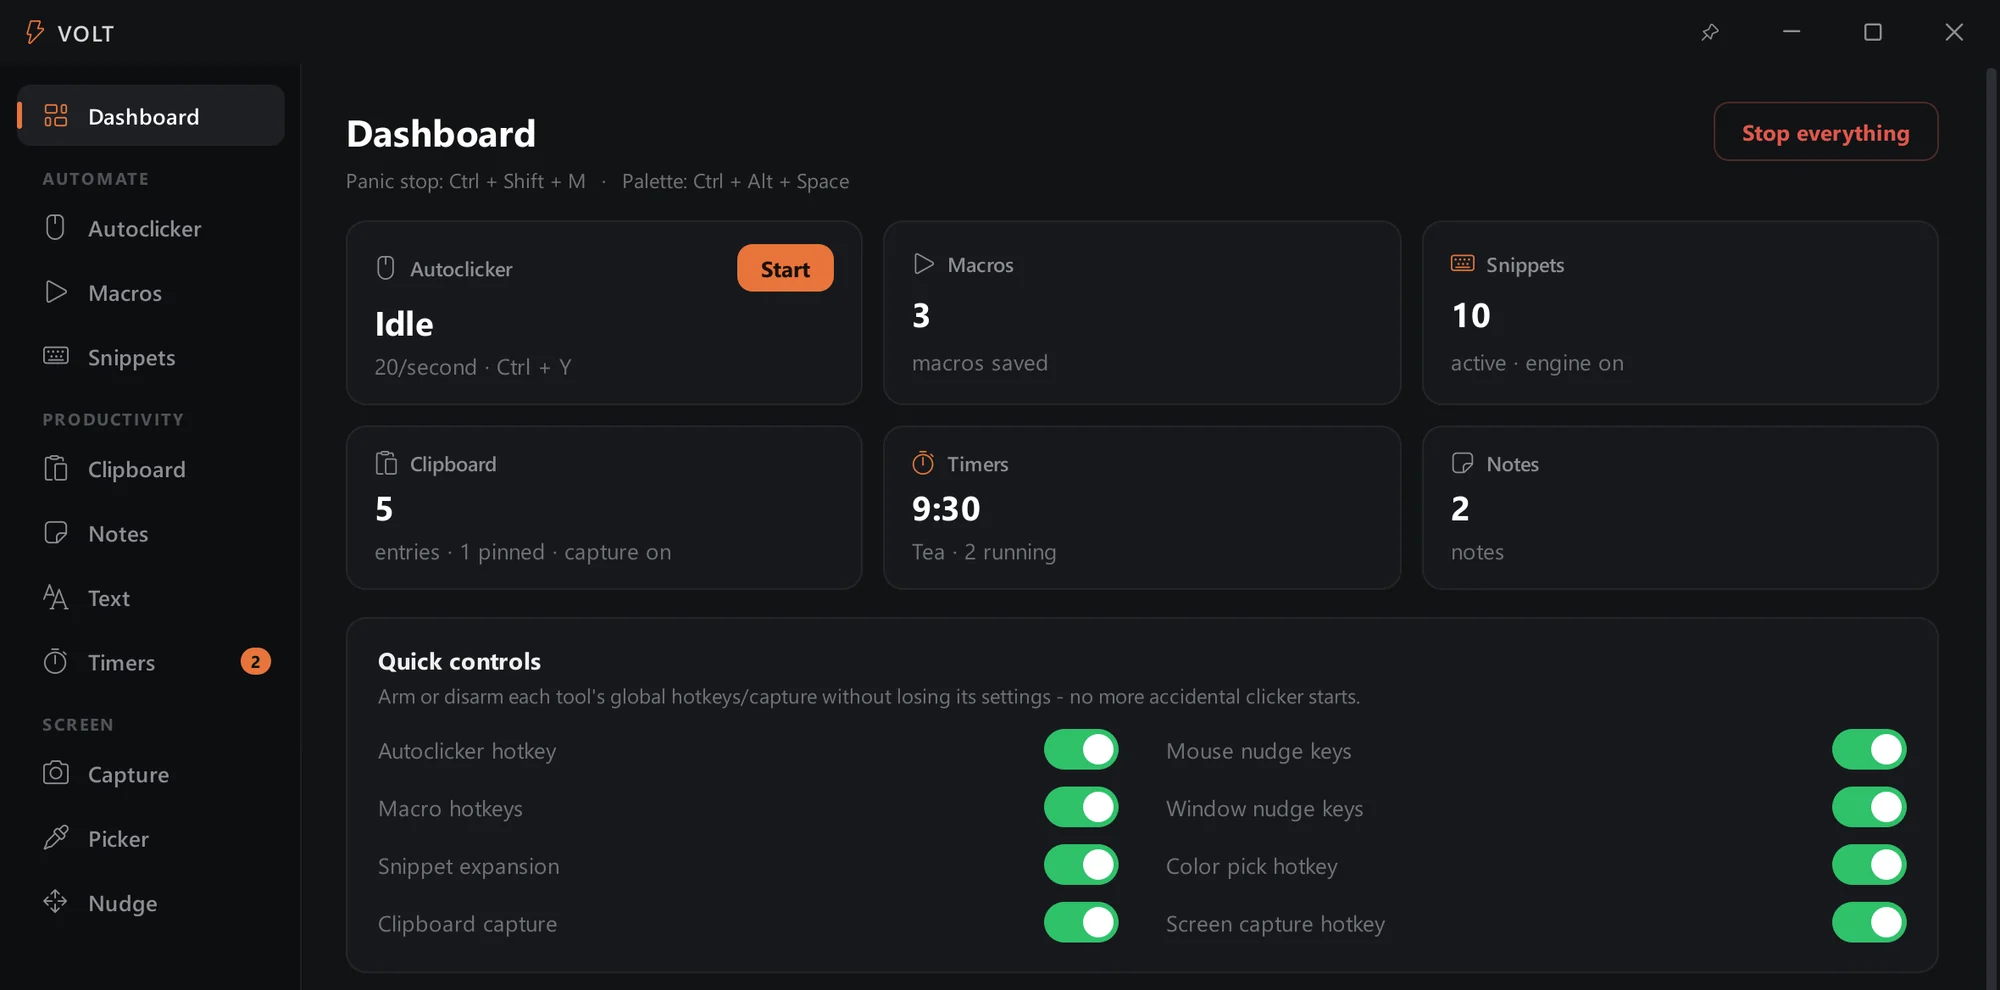
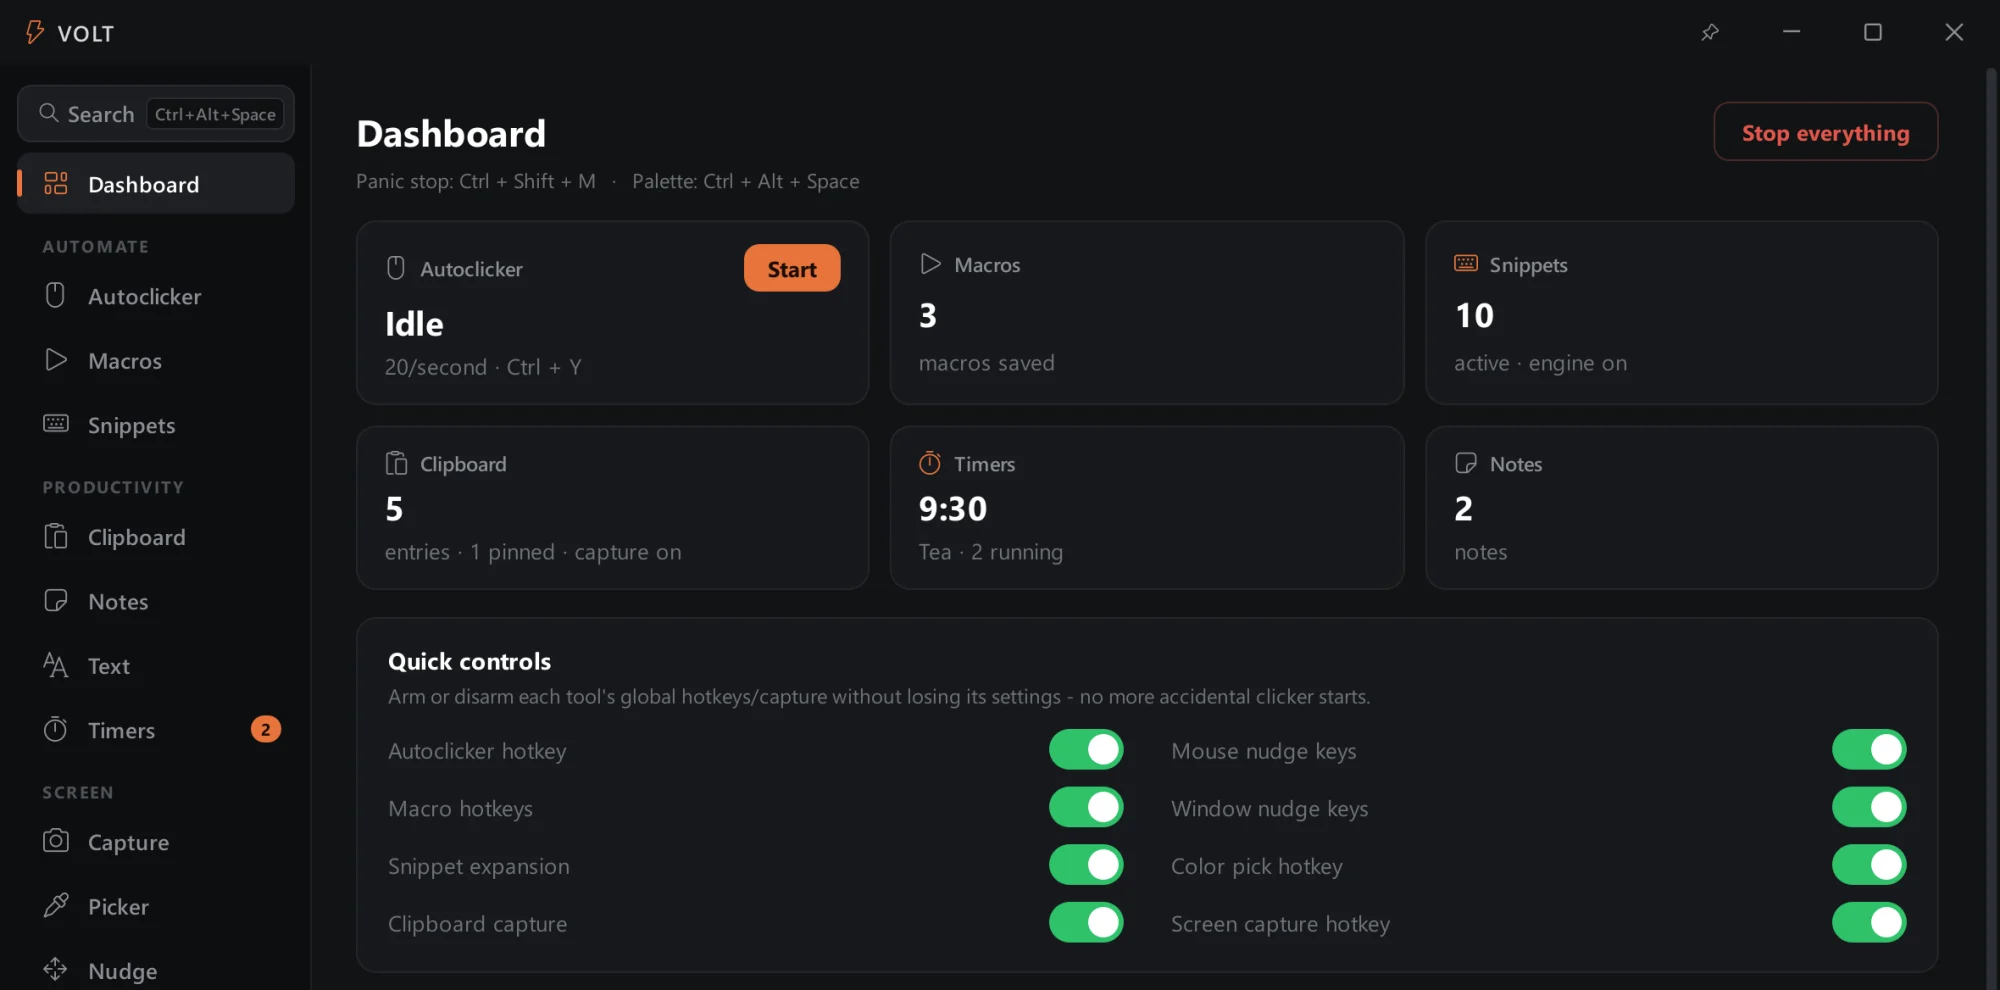
Update site for Volt 0.8
Plainer hero copy without the "built for you" tagline, real 0.8 idle
measurements instead of the stats strip and estimates, a new dashboard
screenshot, a light-theme clipboard shot, and a light theme FAQ entry.

diff --git a/index.html b/index.html
@@ -6,11 +6,11 @@
 <meta http-equiv="Content-Security-Policy" content="default-src 'self'; img-src 'self' data:; style-src 'self'; script-src 'none'; object-src 'none'; base-uri 'self'; form-action 'none'; upgrade-insecure-requests">
 <meta name="referrer" content="strict-origin-when-cross-origin">
 <title>Volt for Windows</title>
-<meta name="description" content="Volt is the Windows multitool built for you: autoclicker, macros, snippets, clipboard history and six more tools in one small, free and open source app that keeps everything on your PC.">
+<meta name="description" content="Volt is a free, open source Windows app with an autoclicker, macro recorder, clipboard manager, text expander and six more small tools. It runs from the tray and never goes online.">
 <meta name="theme-color" content="#0d0e10">
 <link rel="canonical" href="https://lljzzz.github.io/">
-<meta property="og:title" content="Volt, the Windows multitool built for you">
-<meta property="og:description" content="Autoclicker, macros, snippets, clipboard history and six more tools in one small app. Free, open source, and nothing leaves your PC.">
+<meta property="og:title" content="Volt: ten small tools for Windows in one app">
+<meta property="og:description" content="An autoclicker, macro recorder, clipboard manager and seven more tools for Windows. Free, open source, and it never goes online.">
 <meta property="og:type" content="website">
 <meta property="og:url" content="https://lljzzz.github.io/">
 <meta property="og:image" content="https://lljzzz.github.io/img/volt-icon-512.png">
@@ -66,13 +66,14 @@
   <section class="hero" id="top">
     <div class="wrap hero-grid">
       <div class="hero-copy">
-        <h1><span class="wordmark">VOLT</span><span class="tagline">The Windows multitool built for <em>you</em>.</span></h1>
-        <p class="lede">Autoclicker, macros, snippets, clipboard history and six more everyday tools in one small app. Free, open source, and nothing ever leaves your PC.</p>
+        <h1><span class="wordmark">VOLT</span><span class="tagline">Ten small Windows tools in one app.</span></h1>
+        <p class="lede">An autoclicker, macros, a text expander, clipboard history, screenshots and five more. It sits in the tray and you use it through hotkeys or a quick search palette. Free, open source, and it never goes online.</p>
         <div class="hero-actions">
           <a class="btn btn-primary" href="#download"><svg class="icon" aria-hidden="true"><use href="#i-download"/></svg>Download for Windows</a>
           <a class="btn btn-ghost" href="#tools">See every tool</a>
         </div>
         <p class="hero-meta">Windows 10 and 11, 64-bit · about 26 MB · no installer</p>
+        <p class="hero-new">New in 0.8: a light theme and a round of bug fixes. <a href="https://github.com/lljzzz/volt/releases/latest">Release notes</a></p>
       </div>
 
       <div class="hero-visual">
@@ -84,7 +85,7 @@
         <div class="stack">
           <div class="window win-back">
             <img src="img/dashboard.webp" width="2000" height="990" fetchpriority="high"
-              alt="The Volt Dashboard: status cards for the autoclicker, macros, snippets, clipboard, timers and notes, above a Quick controls panel with one switch per tool's hotkeys.">
+              alt="The Volt Dashboard: a sidebar with a Search button and every tool, status cards for the autoclicker, macros, snippets, clipboard, timers and notes, and a Quick controls panel with one switch per tool's hotkeys.">
           </div>
           <img class="win-front" src="img/palette.webp" width="1240" height="940"
             alt="The quick palette open with the search text cl, listing recent clipboard items and clipboard transforms like UPPER, lower and Title case.">
@@ -97,27 +98,21 @@
   <section class="section band" id="lightweight" aria-labelledby="perf-title">
     <div class="wrap perf">
       <div class="section-head">
-        <h2 id="perf-title">Lightweight and fast</h2>
-        <p>Volt waits in the tray and only wakes up when you use it. Leave it running all day and you won't notice it's there.</p>
+        <h2 id="perf-title">Quiet in the background</h2>
+        <p>Volt does nothing until you press one of its hotkeys. The autoclicker and macros switch on a precise timer while they run and switch it off again when they stop.</p>
       </div>
-      <div class="stats">
-          <div class="stat"><span class="num">0<small>%</small></span><span class="label">CPU at idle</span></div>
-          <div class="stat"><span class="num">55<small>MB</small></span><span class="label">Memory at idle</span></div>
-          <div class="stat"><span class="num">26<small>MB</small></span><span class="label">Download</span></div>
-        </div>
-      <div class="perf-detail">
+      <div>
         <div class="table-wrap" role="region" aria-labelledby="perf-caption" tabindex="0">
           <table>
-            <caption id="perf-caption" class="visually-hidden">Volt 0.7 resource use</caption>
-            <thead><tr><th scope="col">Load</th><th scope="col">CPU</th><th scope="col">Memory</th></tr></thead>
+            <caption id="perf-caption" class="visually-hidden">Volt 0.8 resource use</caption>
             <tbody>
-              <tr><th scope="row">Idle<span class="sub">Sitting in the tray</span></th><td>0%</td><td>55 MB</td></tr>
-              <tr><th scope="row">Light load<span class="sub">A few timers and the autoclicker running</span></th><td>0%, brief peaks of 0.4%</td><td>about 58.5 MB</td></tr>
-              <tr><th scope="row">Heavy load<span class="sub">Several tools busy at once</span></th><td>should stay under 1%</td><td>should stay under 60 MB</td></tr>
+              <tr><th scope="row">CPU<span class="sub">Idle in the tray</span></th><td>0%</td></tr>
+              <tr><th scope="row">Memory<span class="sub">Idle in the tray</span></th><td>about 50 MB</td></tr>
+              <tr><th scope="row">Download<span class="sub">One portable exe</span></th><td>26 MB</td></tr>
             </tbody>
           </table>
         </div>
-        <p class="note">Idle and light load measured on Volt 0.7. Heavy load is an estimate.</p>
+        <p class="note">Measured on Volt 0.8 with Task Manager's Memory column, over 15 seconds of idle.</p>
       </div>
     </div>
   </section>
@@ -192,7 +187,7 @@
           <article class="feature" id="autoclicker" aria-labelledby="t-autoclicker">
             <div class="feature-copy">
               <div class="tool-title"><span class="tool-icon"><svg class="icon" aria-hidden="true"><use href="#i-mouse"/></svg></span><h4 id="t-autoclicker">Autoclicker</h4></div>
-              <p class="lede">Clicks at any rate you set, with the controls a basic clicker is missing.</p>
+              <p class="lede">Clicks at any rate you set, in place or through a list of points.</p>
               <ul class="facts">
                 <li>Clicks per second, minute or hour, or an exact interval.</li>
                 <li>Humanized timing that varies each click while the average stays on target.</li>
@@ -261,8 +256,9 @@
               <p class="hotkey-line"><span class="keys"><kbd>Ctrl</kbd><span class="plus">+</span><kbd>Shift</kbd><span class="plus">+</span><kbd>V</kbd></span> pastes as plain text.</p>
             </div>
             <figure class="feature-shot">
-              <div class="window shot"><img src="img/clipboard.webp" width="1400" height="745" loading="lazy"
-                alt="Volt's Clipboard page with a searchable history, a pinned color code, a full-text preview and Copy as buttons for UPPER, lower, Title, Trim and One line."></div>
+              <div class="window shot light"><img src="img/clipboard-light.webp" width="1400" height="758" loading="lazy"
+                alt="Volt's Clipboard page in the light theme, with a searchable history, a pinned color code, a full-text preview and Copy as buttons for UPPER, lower, Title, Trim and One line."></div>
+              <figcaption>The light theme, new in 0.8.</figcaption>
             </figure>
           </article>
         </div>
@@ -331,8 +327,8 @@
         <div class="point"><svg class="icon" aria-hidden="true"><use href="#i-wifi-off"/></svg><h3>Nothing to send it with</h3><p>Volt has no network code. No telemetry, no update checks.</p></div>
         <div class="point"><svg class="icon" aria-hidden="true"><use href="#i-user-x"/></svg><h3>No account</h3><p>Nothing to sign up for, nothing to log in to.</p></div>
         <div class="point"><svg class="icon" aria-hidden="true"><use href="#i-usb"/></svg><h3>Take it with you</h3><p>Put an empty file named <code>portable</code> next to <code>Volt.exe</code> and everything lives in one folder. Great for a USB stick.</p></div>
-        <div class="point"><svg class="icon" aria-hidden="true"><use href="#i-archive"/></svg><h3>One-file backup</h3><p>Export and import all your settings, macros and snippets as a single file.</p></div>
-        <div class="point"><svg class="icon" aria-hidden="true"><use href="#i-code"/></svg><h3>Check for yourself</h3><p>The code is open source under the MIT license, so you don't have to take our word for it. <a href="https://github.com/lljzzz/volt">Read the source on GitHub</a>.</p></div>
+        <div class="point"><svg class="icon" aria-hidden="true"><use href="#i-archive"/></svg><h3>One-file backup</h3><p>Export and import your settings, macros, snippets and notes as a single file.</p></div>
+        <div class="point"><svg class="icon" aria-hidden="true"><use href="#i-code"/></svg><h3>Check for yourself</h3><p>The code is open source under the MIT license, so you don't have to take anyone's word for it. <a href="https://github.com/lljzzz/volt">Read the source on GitHub</a>.</p></div>
       </div>
     </div>
   </section>
@@ -393,7 +389,7 @@
       <aside class="dl-card" aria-label="Download details">
         <div class="app">
           <img src="favicon.svg" alt="" width="52" height="52">
-          <div><strong>Volt 0.7</strong><span class="muted">for Windows</span></div>
+          <div><strong>Volt 0.8</strong><span class="muted">for Windows</span></div>
         </div>
         <a class="btn btn-primary" href="https://github.com/lljzzz/volt/releases/latest/download/Volt.exe"><svg class="icon" aria-hidden="true"><use href="#i-download"/></svg>Download Volt.exe</a>
         <p class="dl-more"><a href="https://github.com/lljzzz/volt/releases">Release notes and older versions</a></p>
@@ -433,6 +429,10 @@
           <p>No, Windows 10 and 11 only.</p>
         </div>
         <div class="faq-item">
+          <h3>Is there a light theme?</h3>
+          <p>Yes, since 0.8. Settings, Appearance has Dark, Light and Match Windows, which follows the Windows app mode. There are five accent colors too.</p>
+        </div>
+        <div class="faq-item">
           <h3>Can I run it from a USB stick?</h3>
           <p>Yes. Put an empty file named <code>portable</code> next to <code>Volt.exe</code>.</p>
         </div>
@@ -458,7 +458,7 @@
     <div class="footer-grid">
       <div>
         <a class="brand" href="#top" aria-label="Volt home"><img src="favicon.svg" alt="" width="28" height="28">VOLT</a>
-        <p>The Windows multitool built for you. Free, open source and fully local.</p>
+        <p>Ten small Windows tools in one app. Free, open source and offline.</p>
       </div>
       <nav aria-labelledby="f-product">
         <h2 id="f-product">Product</h2>
@@ -487,7 +487,7 @@
       </nav>
     </div>
     <div class="footer-bottom">
-      <span>Volt 0.7 · Made by <a href="https://github.com/lljzzz">lljzzz</a></span>
+      <span>Volt 0.8 · Made by <a href="https://github.com/lljzzz">lljzzz</a></span>
       <span>Not affiliated with Microsoft. Windows is a trademark of Microsoft Corporation.</span>
     </div>
   </div>

diff --git a/styles.css b/styles.css
@@ -136,6 +136,7 @@ kbd {
 .hero .lede { margin-top: var(--s2); font-size: clamp(1.05rem, 1rem + 0.35vw, 1.2rem); color: #c9cbcf; max-width: 64ch; }
 .hero-actions { margin-top: 32px; display: flex; flex-wrap: wrap; gap: 12px; align-items: center; }
 .hero-meta { margin-top: var(--s2); font-size: 0.9rem; color: var(--muted); }
+.hero-new { margin-top: 6px; font-size: 0.9rem; color: var(--muted); }
 
 .hero { overflow-x: clip; }
 .hero-grid { display: grid; grid-template-columns: minmax(0, 9fr) minmax(0, 13fr); gap: var(--s6); align-items: center; }
@@ -234,6 +235,8 @@ figcaption { font-size: 0.88rem; color: var(--muted); }
 .facts strong { color: var(--text); font-weight: 700; }
 .hotkey-line { font-size: 0.92rem; line-height: 2; color: var(--muted); padding-top: 4px; }
 .shot { padding: 12px; background: var(--bg); }
+.shot.light { background: #f3f4f6; border-color: #3a3d42; }
+.feature-shot figcaption { margin-top: 12px; }
 .feature-shot { margin: 0; min-width: 0; }
 .example {
   display: grid; grid-template-columns: auto minmax(0, 1fr); gap: 6px 16px; align-items: baseline;
@@ -258,15 +261,9 @@ figcaption { font-size: 0.88rem; color: var(--muted); }
 @media (max-width: 960px) { .cards.three { grid-template-columns: minmax(0, 1fr); } }
 @media (max-width: 760px) { .cards.two { grid-template-columns: minmax(0, 1fr); } }
 
-.perf { display: grid; grid-template-columns: minmax(0, 5fr) minmax(0, 7fr); gap: var(--s4) clamp(32px, 5vw, 64px); align-items: end; }
-.perf-detail { grid-column: 1 / -1; }
-.perf-detail .table-wrap { margin-top: 0; }
-.stats { display: grid; grid-template-columns: repeat(3, minmax(0, 1fr)); border: 1px solid var(--line); border-radius: var(--radius-card); background: var(--surface); }
-.stat { padding: clamp(16px, 3vw, 24px); display: grid; gap: 4px; min-width: 0; }
-.stat + .stat { border-left: 1px solid var(--line); }
-.stat .num { font: 700 clamp(2rem, 1.4rem + 2vw, 2.75rem)/1 var(--font-display); letter-spacing: -0.03em; font-variant-numeric: tabular-nums; color: #f2f2f2; }
-.stat .num small { font-size: 0.5em; letter-spacing: 0; margin-left: 3px; color: var(--muted); font-weight: 700; }
-.stat .label { font-size: 0.9rem; color: var(--muted); }
+.perf { display: grid; grid-template-columns: minmax(0, 5fr) minmax(0, 6fr); gap: var(--s4) clamp(32px, 5vw, 64px); align-items: center; }
+.perf .table-wrap { margin-top: 0; }
+.perf td { text-align: right; white-space: nowrap; color: var(--text); font-weight: 700; }
 .table-wrap { overflow-x: auto; margin-top: 16px; border: 1px solid var(--line); border-radius: var(--radius-card); background: var(--surface); }
 .table-wrap:focus-visible { outline-offset: 2px; border-radius: var(--radius-card); }
 table { width: 100%; border-collapse: collapse; font-size: 0.95rem; font-variant-numeric: tabular-nums; }
@@ -277,10 +274,6 @@ tbody th { font-weight: 400; color: #d2d4d7; }
 tbody th .sub { display: block; font-size: 0.85rem; color: var(--muted); margin-top: 2px; }
 .note { margin-top: var(--s2); font-size: 0.88rem; color: var(--muted); }
 @media (max-width: 860px) { .perf { grid-template-columns: minmax(0, 1fr); } }
-@media (max-width: 340px) {
-  .stats { grid-template-columns: minmax(0, 1fr); }
-  .stat + .stat { border-left: 0; border-top: 1px solid var(--line); }
-}
 
 .points { display: grid; grid-template-columns: repeat(3, minmax(0, 1fr)); gap: 0; margin-top: clamp(40px, 5vw, 56px); border-top: 1px solid var(--line); }
 .point { padding: var(--s4) var(--s4) var(--s4) 0; display: grid; gap: var(--s1); align-content: start; border-bottom: 1px solid var(--line); min-width: 0; }
@@ -383,11 +376,9 @@ tbody th .sub { display: block; font-size: 0.85rem; color: var(--muted); margin-
   font: 700 clamp(1.5rem, 1rem + 1.7vw, 2.25rem)/1.15 var(--font-display);
   letter-spacing: -0.02em; color: #f2f2f2;
 }
-.tagline em { font-style: normal; color: var(--accent); }
 
 @media (forced-colors: active) {
-  .btn, .skip, .dl-card, .card, .index, .stats, .table-wrap, .callout, .example { border: 1px solid CanvasText; }
+  .btn, .skip, .dl-card, .card, .index, .table-wrap, .callout, .example { border: 1px solid CanvasText; }
   .btn-primary { forced-color-adjust: none; background: ButtonText; color: ButtonFace; }
   .facts li::before, .running::before { background: CanvasText; }
-  .tagline em { color: LinkText; }
 }

diff --git a/privacy.html b/privacy.html
@@ -72,7 +72,7 @@
 <footer class="site-footer">
   <div class="wrap">
     <div class="footer-bottom solo">
-      <span>Volt 0.7 · Made by <a href="https://github.com/lljzzz">lljzzz</a></span>
+      <span>Volt 0.8 · Made by <a href="https://github.com/lljzzz">lljzzz</a></span>
       <nav aria-label="Footer"><a href="./">Home</a> · <a href="privacy.html" aria-current="page">Privacy Policy</a> · <a href="terms.html">Terms</a></nav>
     </div>
   </div>

diff --git a/terms.html b/terms.html
@@ -77,7 +77,7 @@
 <footer class="site-footer">
   <div class="wrap">
     <div class="footer-bottom solo">
-      <span>Volt 0.7 · Made by <a href="https://github.com/lljzzz">lljzzz</a></span>
+      <span>Volt 0.8 · Made by <a href="https://github.com/lljzzz">lljzzz</a></span>
       <nav aria-label="Footer"><a href="./">Home</a> · <a href="privacy.html">Privacy Policy</a> · <a href="terms.html" aria-current="page">Terms</a></nav>
     </div>
   </div>

diff --git a/404.html b/404.html
@@ -84,7 +84,7 @@ footer .wrap{display:flex;flex-wrap:wrap;justify-content:space-between;gap:8px 2
 
 <footer>
   <div class="wrap">
-    <span>Volt 0.7</span>
+    <span>Volt 0.8</span>
     <nav aria-label="Footer"><a href="./">Home</a> · <a href="privacy.html">Privacy Policy</a> · <a href="terms.html">Terms</a></nav>
   </div>
 </footer>
